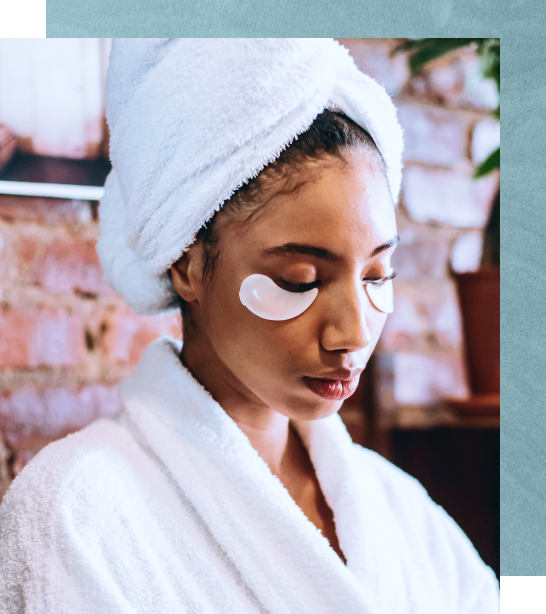
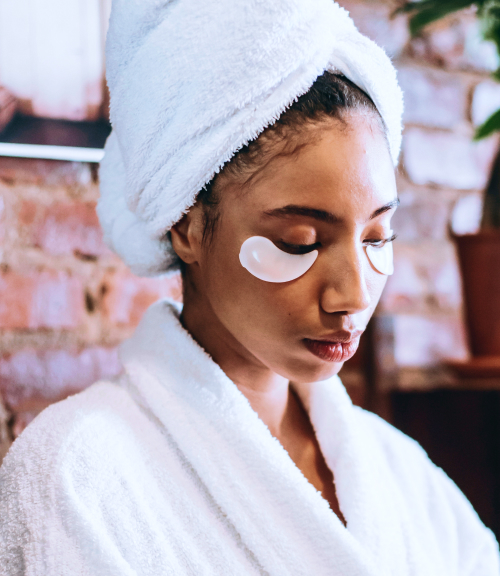
Update

diff --git a/src/components/AboutUs.jsx b/src/components/AboutUs.jsx
@@ -1,6 +1,6 @@
 import styles from '../style';
 import {aboutUs} from '../constants';
-import { facial1 } from '../assets';
+import { facial1, bg2 } from '../assets';
 
 const AboutUsCard = ({id, image, title}) =>(
   <div className='flex flex-col items-center justify-center max-w-[165px] max-h-[180px] p-2 border-[1px] border-darkGreen bg-white gap-[14px]'>
@@ -23,8 +23,9 @@ const AboutUs = () => (
       </div>
     </div>
 
-    <div>
-      <img src={facial1} alt="" className='object-contain sm:h-[596px] sm:w-[614px]' />
+    <div className='relative bottom-4 sm:py-0 py-8'>
+      <img src={bg2} alt="" className='absolute object-contain sm:h-[576px] sm:w-[500px] z-10' />
+      <img src={facial1} alt="" className='top-8 right-8 relative object-contain sm:h-[576px] sm:w-[500px] z-20 shadow-[0px_-6px_25px_rgba(0,0,0,0.3)]' />    
     </div>
 
   </section>

diff --git a/src/assets/index.js b/src/assets/index.js
@@ -10,7 +10,6 @@ import twitter from "./twitter.png";
 import instagram from "./instagram.png";
 import menu from "./menu.svg";
 import close from "./close.svg";
-import bg from "./bg.png";
 import bg1 from "./bg1.jpg";
 
 /*hero*/
@@ -27,6 +26,7 @@ import facial1 from "./facial.jpg";
 import icon1 from "./experts.png";
 import icon2 from "./great-services.svg";
 import icon3 from "./genuine.png";
+import bg2 from "./bg2.jpg";
 
 /*services*/
 import two_girls from "./two-girls.jpg";
@@ -84,7 +84,7 @@ export{
     logo_footer,
     menu,
     close,
-    bg,
     bg1,
+    bg2,
 };
 
